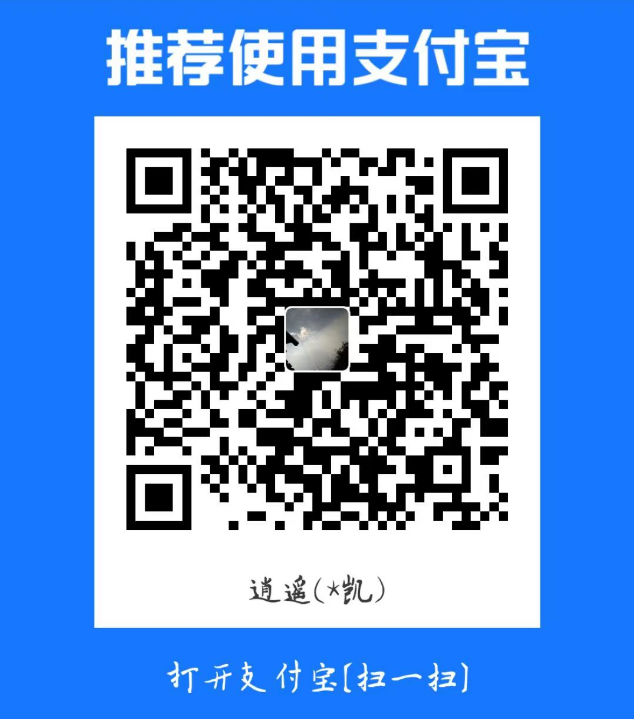
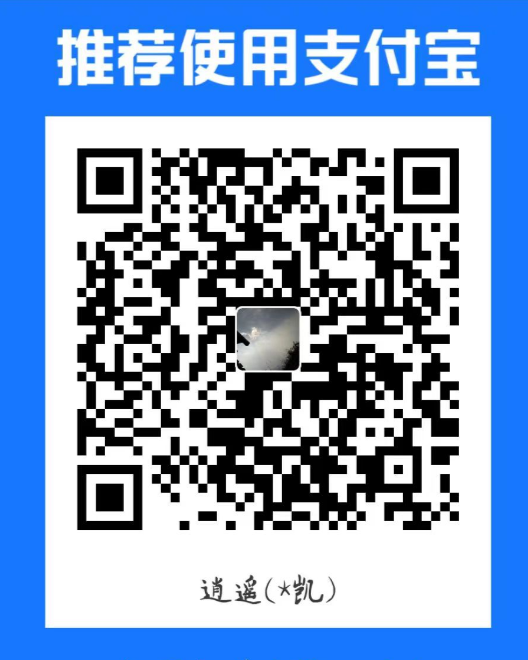
更新

diff --git a/donate.md b/donate.md
@@ -6,6 +6,6 @@ support through the following methods:
 - ko-fi(PayPal)：https://ko-fi.com/xaoyaoo
 - 微信支付/支付宝：
 <div>
-  <img width="40%" src="./assets/img/wx_pay.jpg">
-  <img align="right" width="50%" src="./assets/img/alipay.png">
+  <img width="45%" src="./assets/img/wx_pay.png"/>
+  <img align="right" width="45%" src="./assets/img/alipay.png"/>
 </div>
